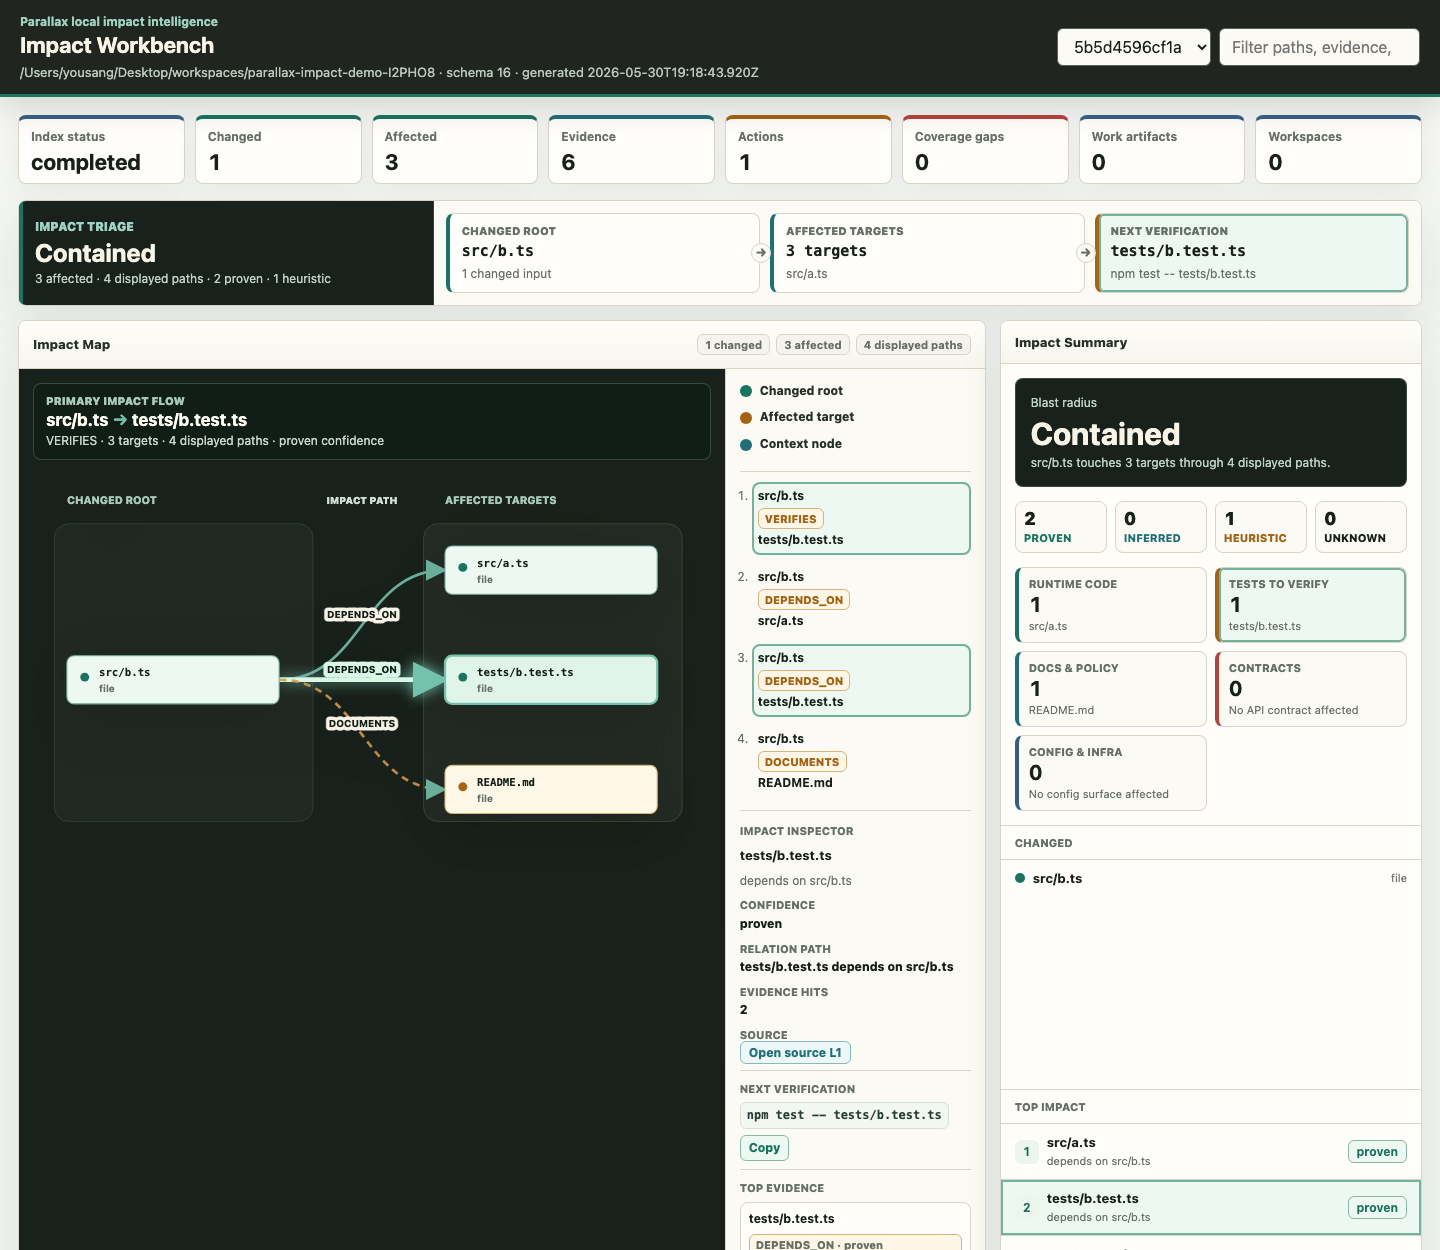
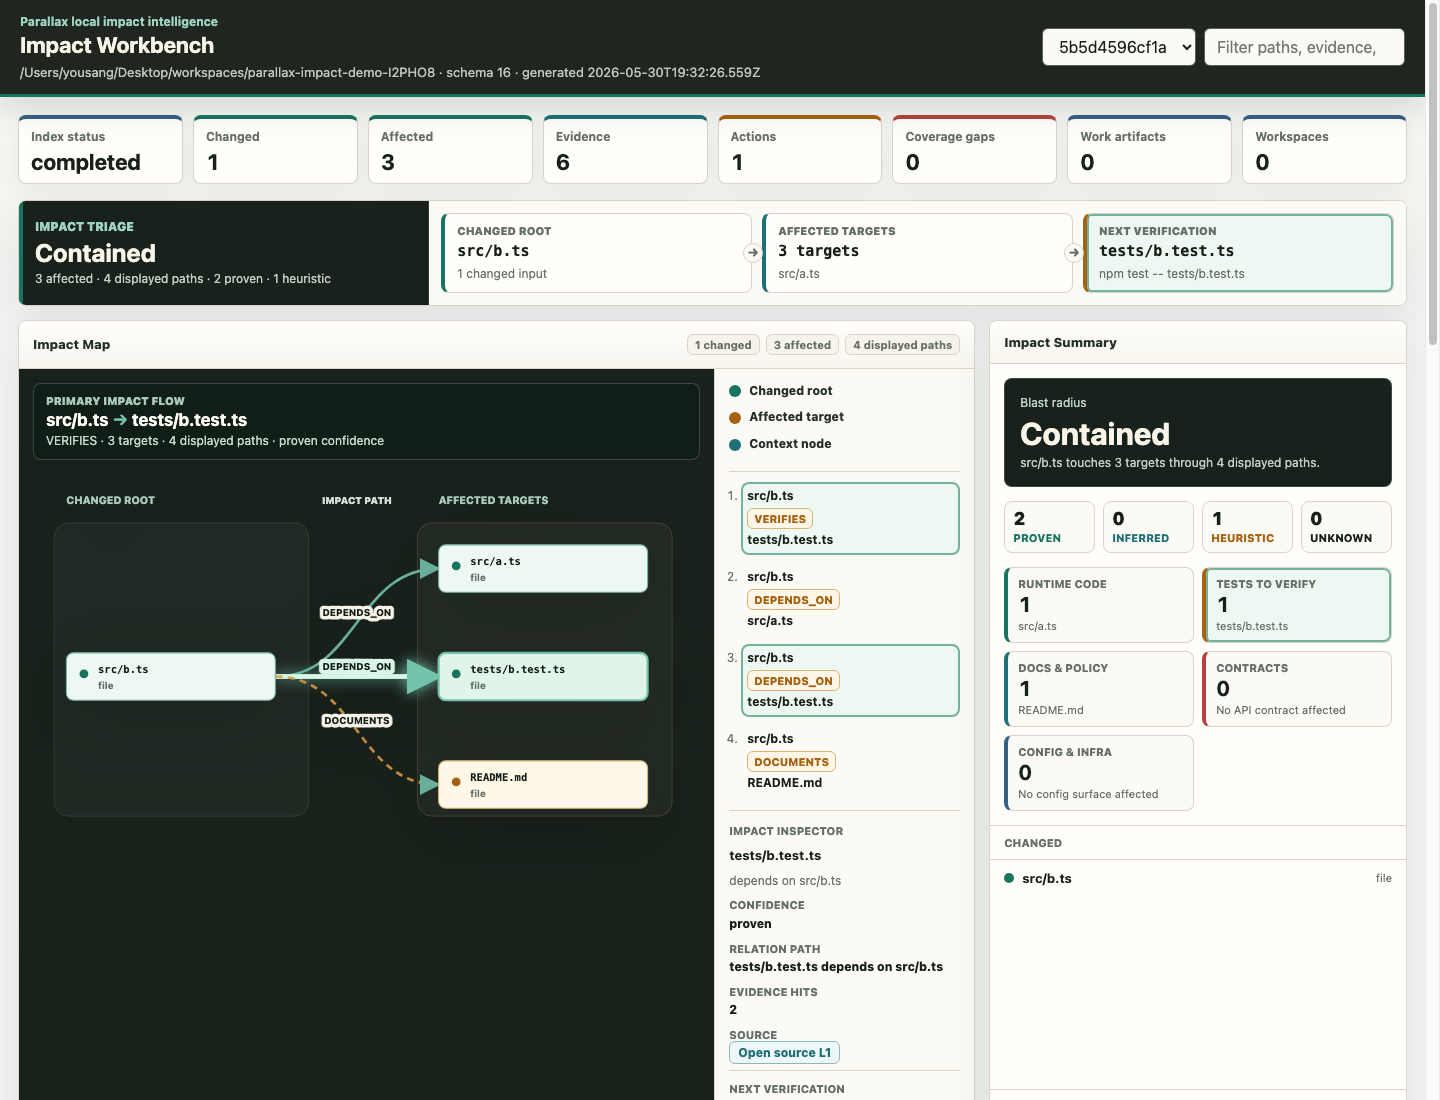
feat(ui): tighten mobile impact overview

diff --git a/src/ui.ts b/src/ui.ts
@@ -2577,7 +2577,9 @@ export function renderUiHtml(snapshot: UiSnapshot): string {
     }
     .impact-svg {
       display: block;
+      min-width: 0;
       width: 100%;
+      max-width: 100%;
       height: 470px;
       filter: drop-shadow(0 16px 30px rgba(0, 0, 0, 0.18));
     }
@@ -2884,34 +2886,140 @@ export function renderUiHtml(snapshot: UiSnapshot): string {
       .toolbar { justify-content: stretch; }
       .toolbar input, .toolbar select { width: 100%; }
       .metrics { grid-template-columns: repeat(2, minmax(0, 1fr)); }
-      .impact-triage, .triage-flow { grid-template-columns: 1fr; }
+      .impact-triage { grid-template-columns: 1fr; }
       .triage-head { border-right: 0; border-bottom: 1px solid var(--line); }
-      .triage-step::after { display: none !important; }
       .delta-content, .delta-paths { grid-template-columns: 1fr; }
       .delta-hero, .delta-metrics { border-right: 0; border-bottom: 1px solid var(--line); }
       .delta-lanes, .delta-presets { grid-template-columns: repeat(2, minmax(0, 1fr)); }
       .impact-overview, .workbench, .bottom, .map-content, .summary-columns { grid-template-columns: 1fr; }
       .summary-columns > div:first-child, .map-legend { border-right: 0; border-left: 0; }
-      .map-content { height: auto; }
+      .map-content {
+        grid-template-columns: minmax(0, 1fr);
+        height: auto;
+      }
       .impact-svg { height: 380px; }
     }
     @media (max-width: 560px) {
       .shell { padding: 10px; }
+      .topbar {
+        position: static;
+        min-height: 0;
+        gap: 10px;
+        padding: 10px 12px;
+      }
+      .eyebrow { margin-bottom: 3px; font-size: 10px; }
+      .title h1 { font-size: 19px; }
+      .title p {
+        margin-top: 4px;
+        font-size: 11px;
+        line-height: 1.25;
+      }
+      .toolbar {
+        display: grid;
+        grid-template-columns: minmax(0, 0.85fr) minmax(0, 1.15fr);
+        gap: 7px;
+      }
+      .toolbar input, .toolbar select {
+        min-width: 0;
+        min-height: 34px;
+        padding: 0 8px;
+      }
       .metrics {
-        grid-template-columns: repeat(2, minmax(0, 1fr));
-        gap: 8px;
+        grid-template-columns: none;
+        grid-auto-flow: column;
+        grid-auto-columns: minmax(96px, 1fr);
+        gap: 6px;
+        margin-bottom: 10px;
+        overflow-x: auto;
+        overscroll-behavior-x: contain;
+        padding-bottom: 2px;
+        scroll-snap-type: x proximity;
+        scrollbar-width: none;
       }
+      .metrics::-webkit-scrollbar { display: none; }
       .metric {
-        min-height: 58px;
-        padding: 8px 10px;
+        min-height: 48px;
+        padding: 7px 8px;
+        scroll-snap-align: start;
       }
-      .metric strong { font-size: 20px; }
+      .metric span {
+        font-size: 10px;
+        line-height: 1.15;
+      }
+      .metric strong {
+        margin-top: 5px;
+        font-size: 16px;
+        overflow-wrap: anywhere;
+        white-space: nowrap;
+      }
+      .impact-triage { margin-bottom: 10px; }
+      .triage-head {
+        gap: 4px;
+        padding: 10px 12px;
+      }
+      .triage-head h2 { font-size: 10px; }
+      .triage-head strong { font-size: 21px; }
+      .triage-head p {
+        font-size: 11px;
+        line-height: 1.25;
+      }
+      .triage-flow {
+        grid-template-columns: minmax(0, 0.9fr) minmax(0, 0.9fr) minmax(0, 1.2fr);
+        gap: 6px;
+        padding: 8px;
+      }
+      .triage-step {
+        min-height: 60px;
+        gap: 3px;
+        padding: 8px;
+      }
+      .triage-step:not(:last-child)::after {
+        right: -9px;
+        width: 14px;
+        height: 14px;
+        font-size: 9px;
+      }
+      .triage-step span { font-size: 9px; }
+      .triage-step strong {
+        font-size: 12px;
+        line-height: 1.18;
+      }
+      .triage-step small {
+        font-size: 10px;
+        line-height: 1.2;
+      }
+      .panel > h2, .panel-heading { padding: 10px 12px; }
+      .panel-heading {
+        align-items: center;
+        flex-direction: row;
+        flex-wrap: wrap;
+      }
+      .panel-heading h2 { flex: 0 0 auto; }
+      .panel-chips {
+        flex: 1 1 170px;
+        gap: 4px;
+        justify-content: flex-start;
+        min-width: 0;
+        font-size: 10px;
+      }
+      .panel-chips span { padding: 2px 5px; }
+      .map-frame {
+        gap: 8px;
+        padding: 10px;
+      }
+      .map-insight {
+        gap: 2px;
+        padding: 8px 9px;
+      }
+      .map-insight strong { font-size: 14px; }
+      .map-insight small { font-size: 11px; }
+      .impact-svg { height: 320px; }
+      .map-legend { max-height: 300px; padding: 10px; }
       .impact-row, .workspace-link-row, .action-row { grid-template-columns: 1fr; }
       .action-controls { grid-column: auto; justify-content: flex-start; }
       .impact-path-meta { justify-content: flex-start; max-width: none; }
       .confidence-strip { grid-template-columns: repeat(2, minmax(0, 1fr)); }
       .delta-metrics, .delta-lanes, .delta-presets { grid-template-columns: 1fr; }
-      .panel-heading { align-items: flex-start; flex-direction: column; }
     }
   </style>
 </head>

diff --git a/tests/ui.test.ts b/tests/ui.test.ts
@@ -227,7 +227,12 @@ test('UI snapshot and HTML render a list-first report workbench', async () => {
     assert.match(html, /triage-step triage-step-action selectable-impact" tabindex="0" role="button" data-impact-path="tests\/b\.test\.ts"/);
     assert.match(html, /src\/b\.ts touches 3 targets through 4 displayed paths/);
     assert.match(html, /aria-label="Affected targets by product lane"/);
-    assert.match(html, /@media \(max-width: 560px\)[\s\S]*\.metrics \{\s*grid-template-columns: repeat\(2, minmax\(0, 1fr\)\);/);
+    assert.match(html, /@media \(max-width: 560px\)[\s\S]*\.toolbar \{\s*display: grid;\s*grid-template-columns: minmax\(0, 0\.85fr\) minmax\(0, 1\.15fr\);/);
+    assert.match(html, /@media \(max-width: 980px\)[\s\S]*\.map-content \{\s*grid-template-columns: minmax\(0, 1fr\);\s*height: auto;\s*\}/);
+    assert.match(html, /@media \(max-width: 560px\)[\s\S]*\.metrics \{\s*grid-template-columns: none;\s*grid-auto-flow: column;\s*grid-auto-columns: minmax\(96px, 1fr\);/);
+    assert.match(html, /@media \(max-width: 560px\)[\s\S]*scrollbar-width: none;/);
+    assert.match(html, /@media \(max-width: 560px\)[\s\S]*\.triage-flow \{\s*grid-template-columns: minmax\(0, 0\.9fr\) minmax\(0, 0\.9fr\) minmax\(0, 1\.2fr\);/);
+    assert.match(html, /@media \(max-width: 560px\)[\s\S]*\.impact-svg \{ height: 320px; \}/);
     assert.match(html, /impact-lane-green[\s\S]*Runtime code[\s\S]*<b>1<\/b>[\s\S]*src\/a\.ts/);
     assert.match(html, /impact-lane-amber[\s\S]*Tests to verify[\s\S]*<b>1<\/b>[\s\S]*tests\/b\.test\.ts/);
     assert.match(html, /impact-lane-teal[\s\S]*Docs &amp; policy[\s\S]*<b>1<\/b>[\s\S]*README\.md/);